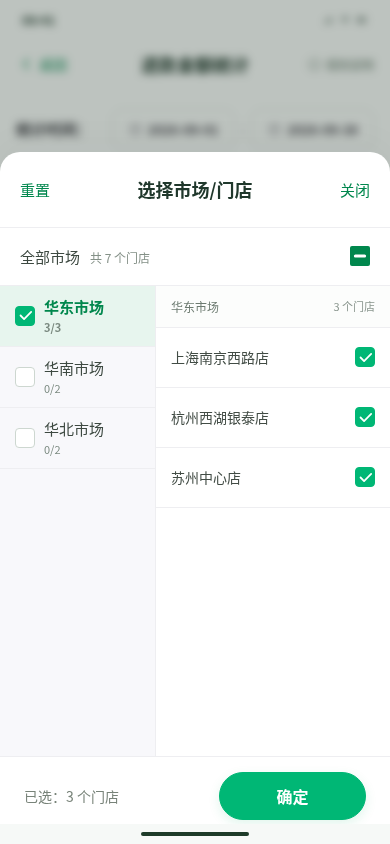
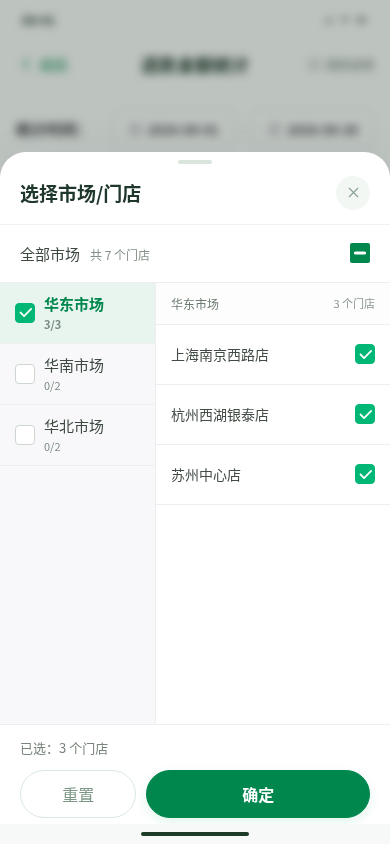
style: align market selector reset and close controls with other drawers

diff --git a/output/refund-report-market-columns/refund.html b/output/refund-report-market-columns/refund.html
@@ -201,12 +201,12 @@ button,input{font:inherit}button{cursor:pointer}button:disabled{cursor:default}b
 .date-selection-summary b{color:#3f5c48}
 
 /* Market selector: independent market and store columns. */
-.drawer[data-mode=market]{height:82%;max-height:88%;border-radius:20px 20px 0 0}
-.drawer[data-mode=market]:before{display:none}
-.drawer[data-mode=market] .dhd{display:grid;grid-template-columns:58px minmax(0,1fr) 58px;min-height:76px;padding:12px 20px;border-bottom:1px solid #eeeef1}
-.drawer[data-mode=market] .dhd b{text-align:center;font-size:18px;white-space:nowrap}
-#marketReset{border:0;background:none;font:inherit;font-size:15px;color:var(--pri);padding:10px 0;min-height:44px;text-align:left}
-.drawer[data-mode=market] .dhd .x{width:58px;height:44px;padding:0;display:block;background:none;border-radius:6px;font-size:15px;color:var(--pri);text-align:right}
+.drawer[data-mode=market]{height:82%;max-height:88%;border-radius:26px 26px 0 0}
+
+
+
+
+
 .drawer[data-mode=market] .dbd{padding:0;display:flex;flex-direction:column;overflow:hidden}
 .org-root{display:flex;align-items:center;justify-content:space-between;gap:12px;min-height:58px;padding:15px 20px;background:#fff;border-bottom:1px solid #eeeef1;font-size:15px;color:#3d4941;flex:none;cursor:pointer}
 .org-root small{font-size:12px;margin-left:10px;color:#859188}
@@ -223,11 +223,11 @@ button,input{font:inherit}button{cursor:pointer}button:disabled{cursor:default}b
 .org-store-row{display:flex;align-items:center;justify-content:space-between;gap:10px;min-height:60px;padding:15px;border-bottom:1px solid #eeeef1;font-size:14px;line-height:1.6;color:#424c45;cursor:pointer}
 .org-root input,.org-market-row>input,.org-store-row input{width:20px;height:20px;margin:0;accent-color:#00b775;flex:none;cursor:pointer}
 .org-store-row span{min-width:0;overflow-wrap:anywhere}
-.drawer[data-mode=market] .dft{align-items:center;gap:12px;padding:15px 24px 24px;border-top:1px solid #eeeef1;box-shadow:none}
-.drawer[data-mode=market] #dReset{display:none}
-#marketSelected{flex:1;color:#788379;font-size:14px;white-space:nowrap}
-.drawer[data-mode=market] #dOk{flex:none;min-width:140px;width:43%;height:48px;background:#00b775;border-color:#00b775}
-@media(max-width:360px){.drawer[data-mode=market] .dhd{padding-left:15px;padding-right:15px}.drawer[data-mode=market] .dhd b{font-size:17px}.org-root{padding:13px 15px}.org-root small{margin-left:6px;font-size:11px}.org-market-row{padding-left:11px;gap:7px}.org-market-row>button{font-size:14px}.org-store-row{padding:13px 11px;font-size:13px;gap:7px}.org-store-heading{padding:11px;font-size:11px}.org-store-heading small{font-size:10px}.drawer[data-mode=market] .dft{padding-left:18px;padding-right:18px}.drawer[data-mode=market] #dOk{min-width:120px}}
+.drawer[data-mode=market] .dft{flex-wrap:wrap;align-items:center;gap:10px;padding:13px 20px 26px;border-top:1px solid #eeeef1;box-shadow:none}
+
+#marketSelected{flex:0 0 100%;color:#788379;font-size:13px;line-height:1.6;margin-bottom:1px;white-space:nowrap}
+
+@media(max-width:360px){.org-root{padding:13px 15px}.org-root small{margin-left:6px;font-size:11px}.org-market-row{padding-left:11px;gap:7px}.org-market-row>button{font-size:14px}.org-store-row{padding:13px 11px;font-size:13px;gap:7px}.org-store-heading{padding:11px;font-size:11px}.org-store-heading small{font-size:10px}.drawer[data-mode=market] .dft{padding-left:18px;padding-right:18px}}
[1 lines of base64/hex data omitted]
 </style>
[1 lines of base64/hex data omitted]
@@ -271,7 +271,7 @@ button,input{font:inherit}button{cursor:pointer}button:disabled{cursor:default}b
 
     <div class="dmask" id="dmask"></div>
     <div class="drawer" id="drawer" role="dialog" aria-modal="true" aria-labelledby="dTitle" aria-hidden="true" inert>
-      <div class="dhd"><button id="marketReset" type="button" hidden>重置</button><b id="dTitle">筛选</b><button class="x" id="dClose" aria-label="关闭筛选"><svg class="icon" xmlns="http://www.w3.org/2000/svg" width="18" height="18" viewBox="0 0 24 24" fill="none" stroke="currentColor" stroke-width="1.5" stroke-linecap="round" stroke-linejoin="round" aria-hidden="true"> <path stroke="none" d="M0 0h24v24H0z" fill="none"/> <path d="M18 6l-12 12" /> <path d="M6 6l12 12" /> </svg></button></div>
+      <div class="dhd"><b id="dTitle">筛选</b><button class="x" id="dClose" aria-label="关闭筛选"><svg class="icon" xmlns="http://www.w3.org/2000/svg" width="18" height="18" viewBox="0 0 24 24" fill="none" stroke="currentColor" stroke-width="1.5" stroke-linecap="round" stroke-linejoin="round" aria-hidden="true"> <path stroke="none" d="M0 0h24v24H0z" fill="none"/> <path d="M18 6l-12 12" /> <path d="M6 6l12 12" /> </svg></button></div>
       <div class="dbd" id="dBody"></div>
       <div class="dft"><span id="marketSelected" role="status" aria-live="polite" hidden></span><button id="dReset">重置</button><button class="ok" id="dOk">确定</button></div>
     </div>
@@ -844,12 +844,9 @@ function renderDimBody(dim,rows,drill){
 /* 商品分类：一级分组（可收起/展开，默认收起）+ 二级明细（不展示三级） */
 /* ============ 抽屉 ============ */
 let dMode='scope';
-const drawerCloseMarkup=$('#dClose').innerHTML;
 function openDrawer(mode,part='start'){
   dMode=mode;
-  $('#marketReset').hidden=mode!=='market';
   $('#marketSelected').hidden=mode!=='market';
-  $('#dClose').innerHTML=mode==='market'?'关闭':drawerCloseMarkup;
   $('#dClose').setAttribute('aria-label',mode==='market'?'关闭市场/门店选择':'关闭筛选');
   drawerReturnFocus=document.activeElement;
   $('#drawer').dataset.mode=mode;
@@ -1110,7 +1107,6 @@ $('#btnScope').onclick=()=>openDrawer('scope');
 $('#btnMarket').onclick=()=>openDrawer('market');
 $('#btnPm').onclick=()=>openDrawer('pm');
 $('#dClose').onclick=closeDrawer;$('#dmask').onclick=closeDrawer;
-$('#marketReset').onclick=()=>$('#dReset').click();
 $('#dReset').onclick=()=>{
   if(dMode==='scope'){tmp.p=[];tmp.c=[];tmp.exp=[];tmp.kw='';}
   else if(dMode==='market'){tmp.mk=[];tmp.kw='';}

diff --git a/output/refund-report-market-columns/README.md b/output/refund-report-market-columns/README.md
@@ -6,11 +6,11 @@
 
 ## 市场/门店选择
 
-- 顶栏：左侧重置、中间标题、右侧关闭。
+- 顶栏：标题与右侧圆形关闭图标，样式与其他筛选浮层一致。
 - 左侧市场、右侧当前市场的门店；列表独立滚动。
 - 点击市场名称只切换展示；勾选市场复选框全选或取消其下全部门店。
 - 可跨市场多选，市场与顶部全选支持半选状态。
-- 底部显示已选门店总数，确定后应用；关闭、点击遮罩或 Escape 均放弃本次草稿。
+- 底部显示已选门店总数，下方左侧重置、右侧确定；确定后应用；关闭、点击遮罩或 Escape 均放弃本次草稿。
 - 空选择沿用原型语义：不限定门店；重置只清空当前草稿，确定后才应用。
 - 保留原3个市场/7个门店演示数据、所有统计逻辑、其他筛选、最新退款类型名称。
 

diff --git a/output/refund-report-market-columns/design-qa.md b/output/refund-report-market-columns/design-qa.md
@@ -26,3 +26,7 @@ final result: passed
 ## 交付
 
 独立部署目录 `reports-market-columns/`；旧根目录的经营报表/退款统计不覆盖。所有资源随HTML内嵌，第三方许可随包提供。尚未连接真实账户权限和业务接口。
+
+## 2026-11-03 操作布局统一
+
+删除顶栏重置与文字关闭，恢复与其他筛选浮层相同的标题、拖拽提示及右侧圆形关闭图标。底部显示已选总数，操作行左侧重置、右侧确定，比例与其他浮层一致。320/390/485px多选回归通过；320×600额外确认两个底部按钮均完整可见，重置清空草稿、关闭不应用。截图已更新。
